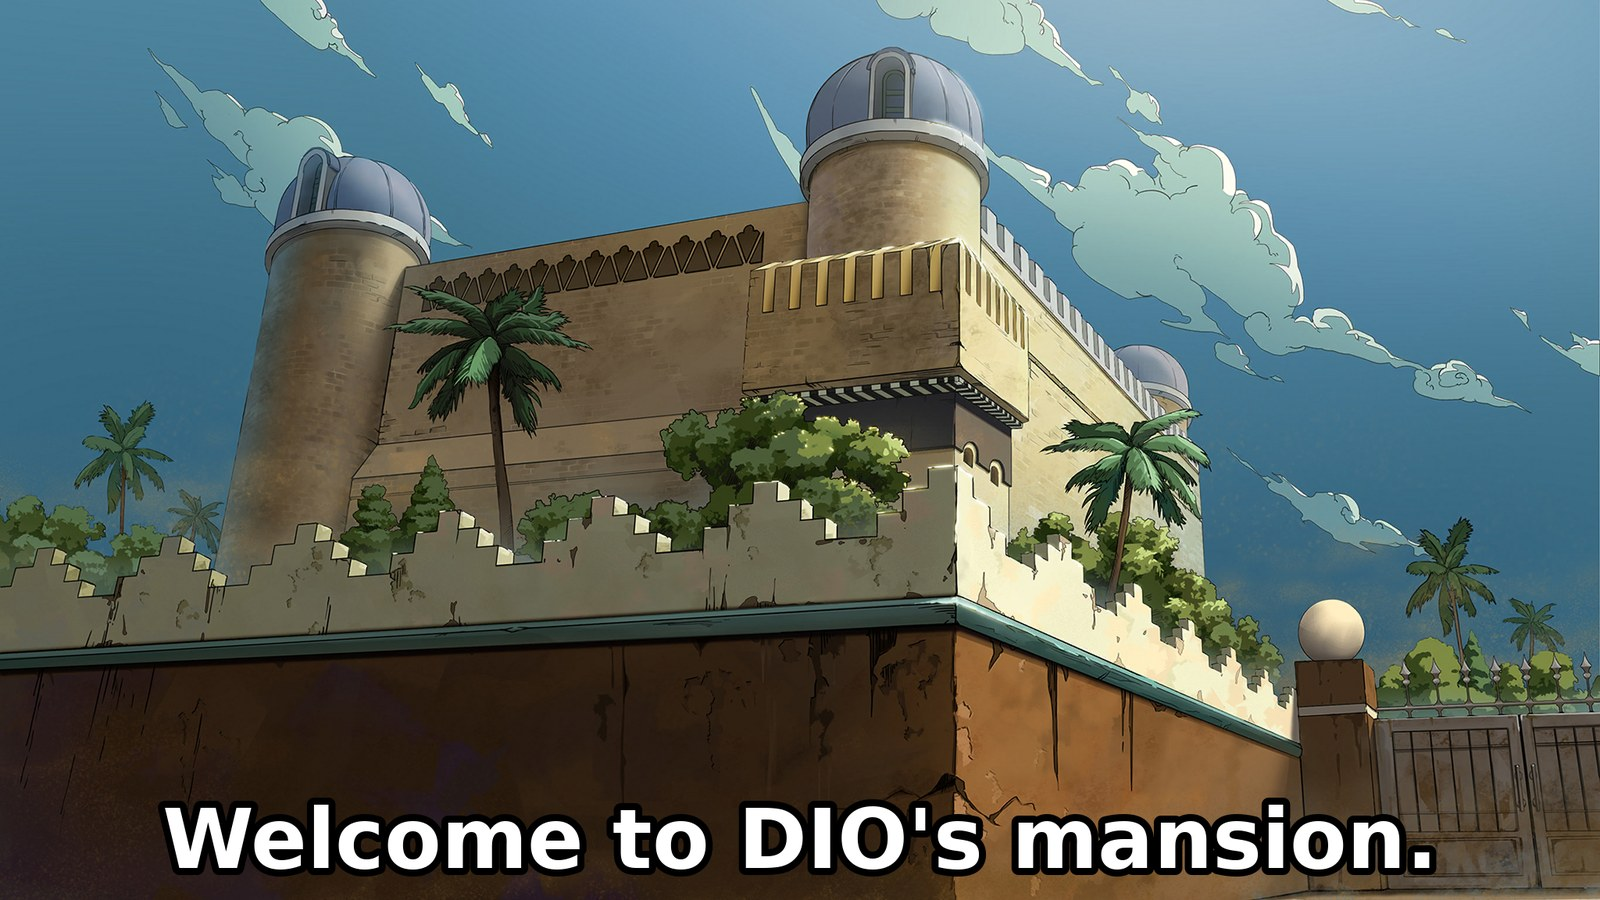
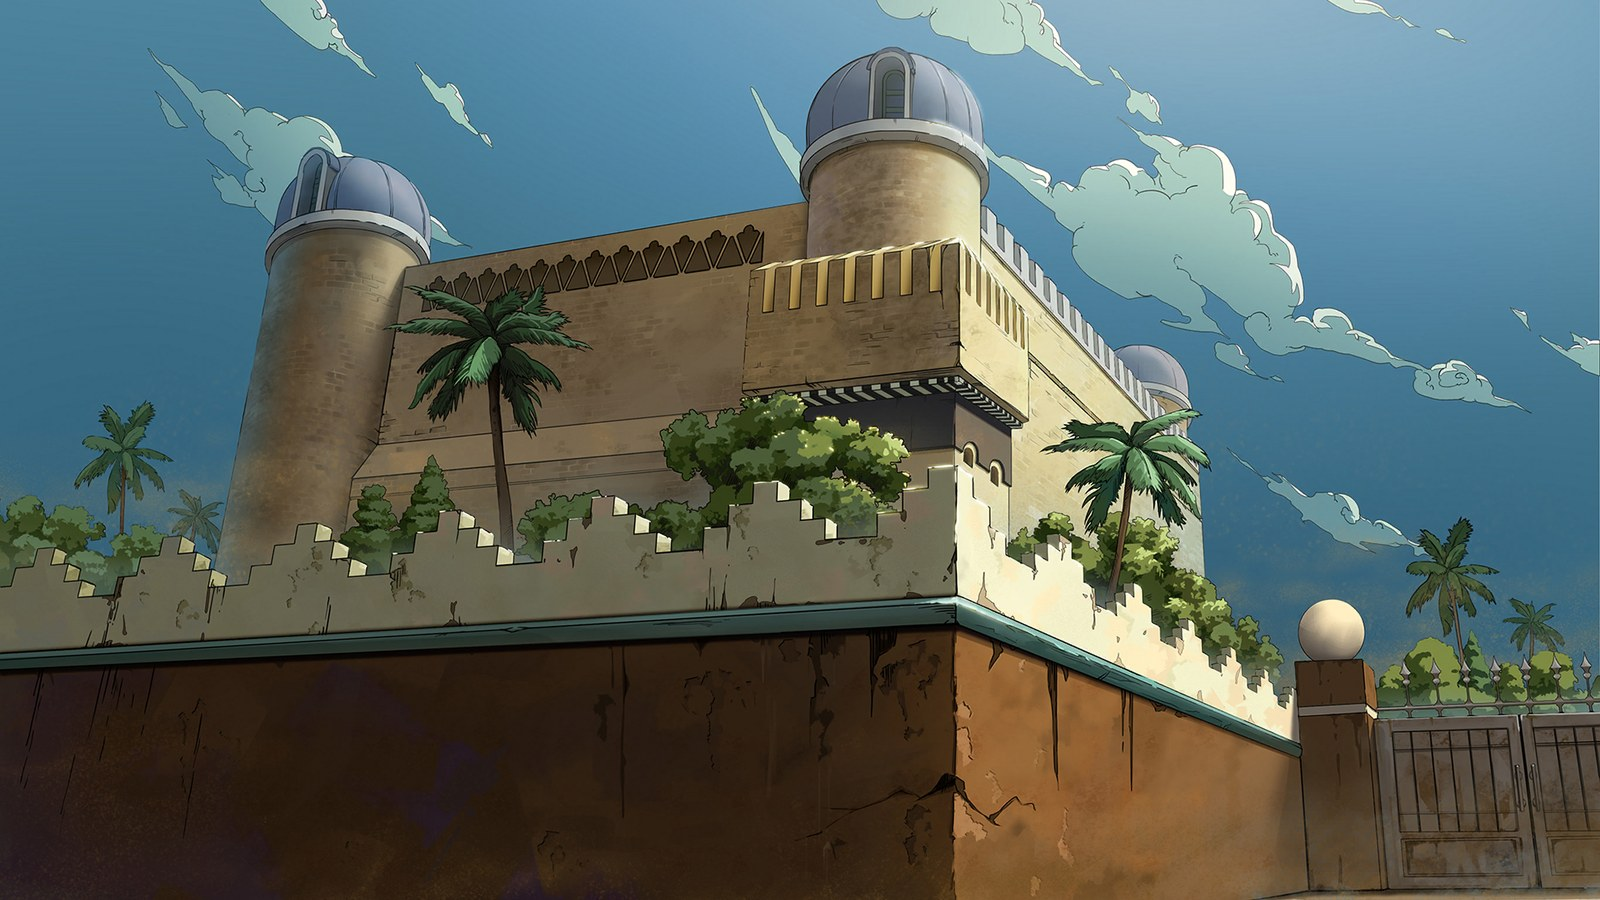
Commissions: use Alex's JoJo art without subtitles
Claude-Session: https://claude.ai/code/session_01WzA86GgdB1ehpb46G3NY2Z

Changed region(s): [[0.0938, 0.8711, 0.9062, 0.9956]]

diff --git a/index.html b/index.html
@@ -1390,7 +1390,7 @@ bOpts(); showMode(); route();
     const list = data[deck], grid = el("comGrid");
     el("comNote").textContent = deck === "spencer"
       ? "Spencer's 30: each Magic card and the Yu-Gi-Oh! card it becomes. Make it opens Art swap with that card and art loaded."
-      : "Alex's 30: each Magic card and the subtitled JoJo art it gets. Make it opens Art swap with that card and art loaded.";
+      : "Alex's 30: each Magic card and the JoJo art it gets. Make it opens Art swap with that card and art loaded.";
     grid.innerHTML = list.map((c, i) => {
       const shown = deck === "spencer" ? ygo(c.ygo) : c.art;
       return `<article class="com-item">
